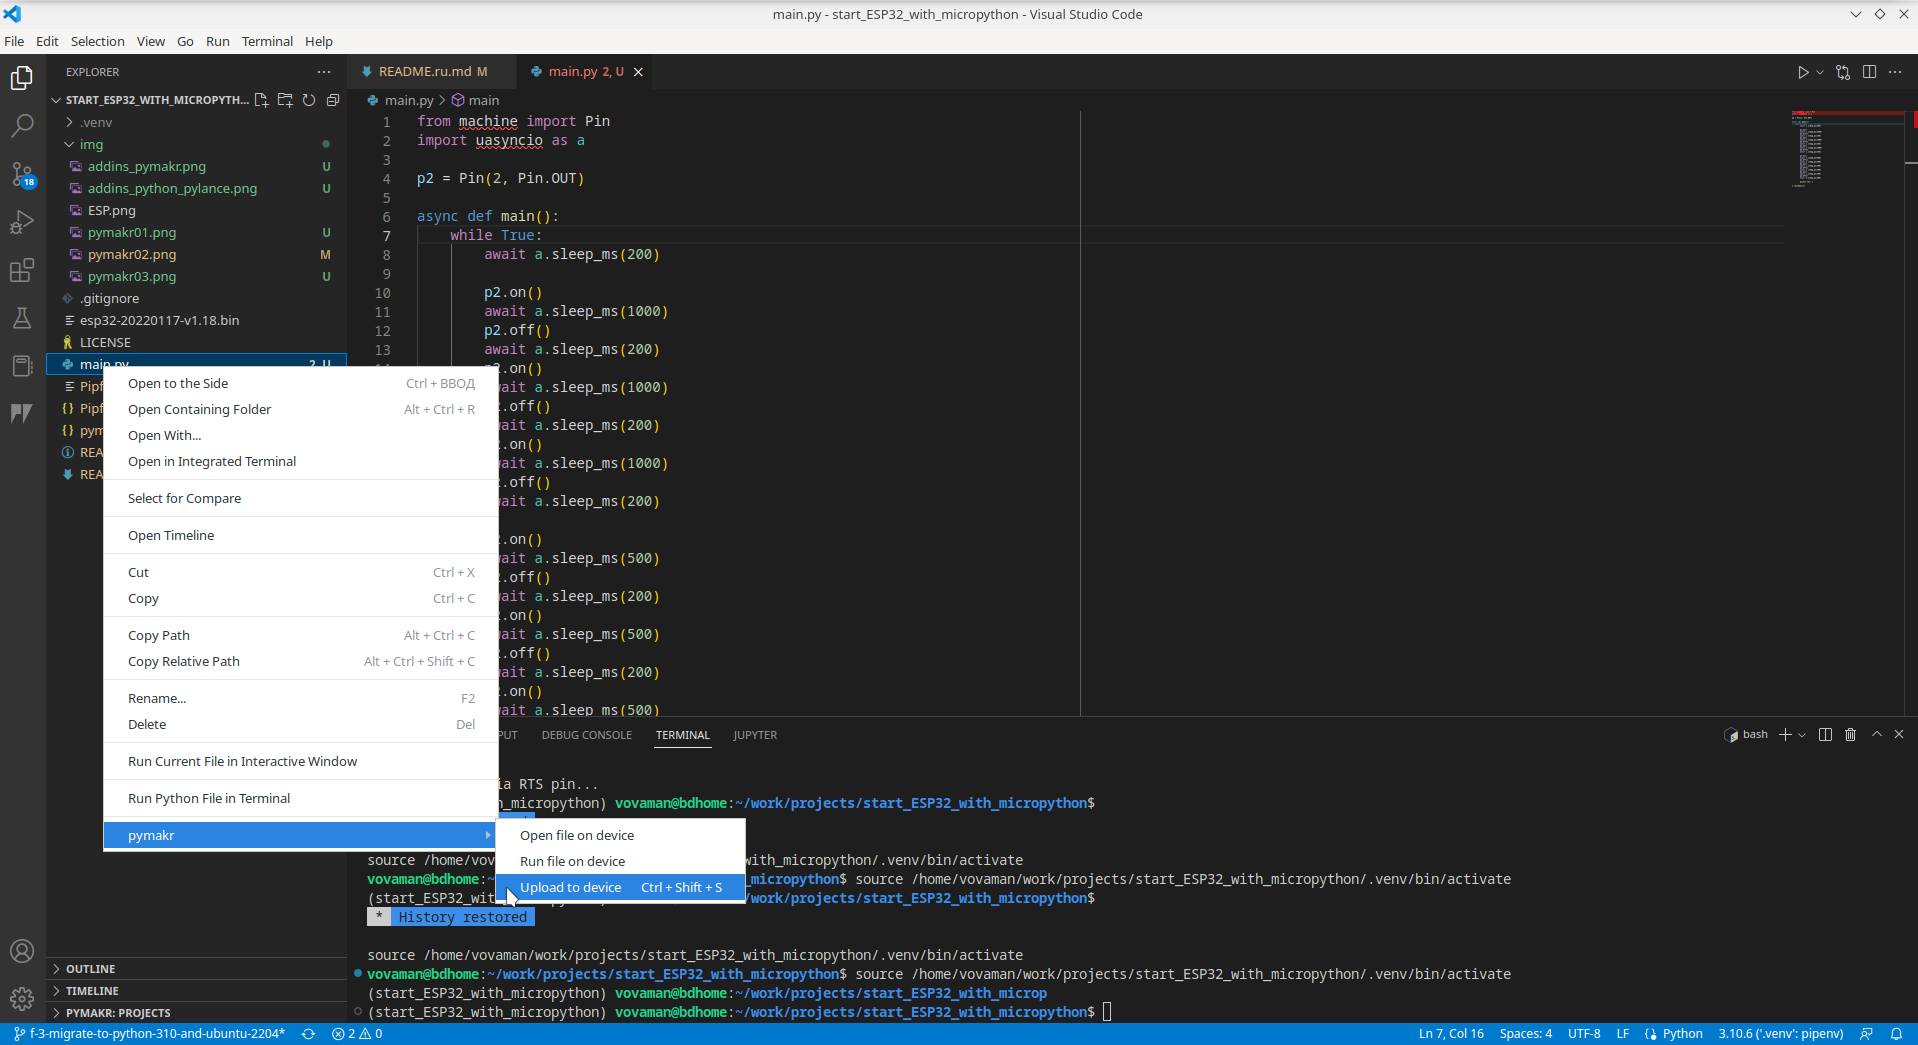
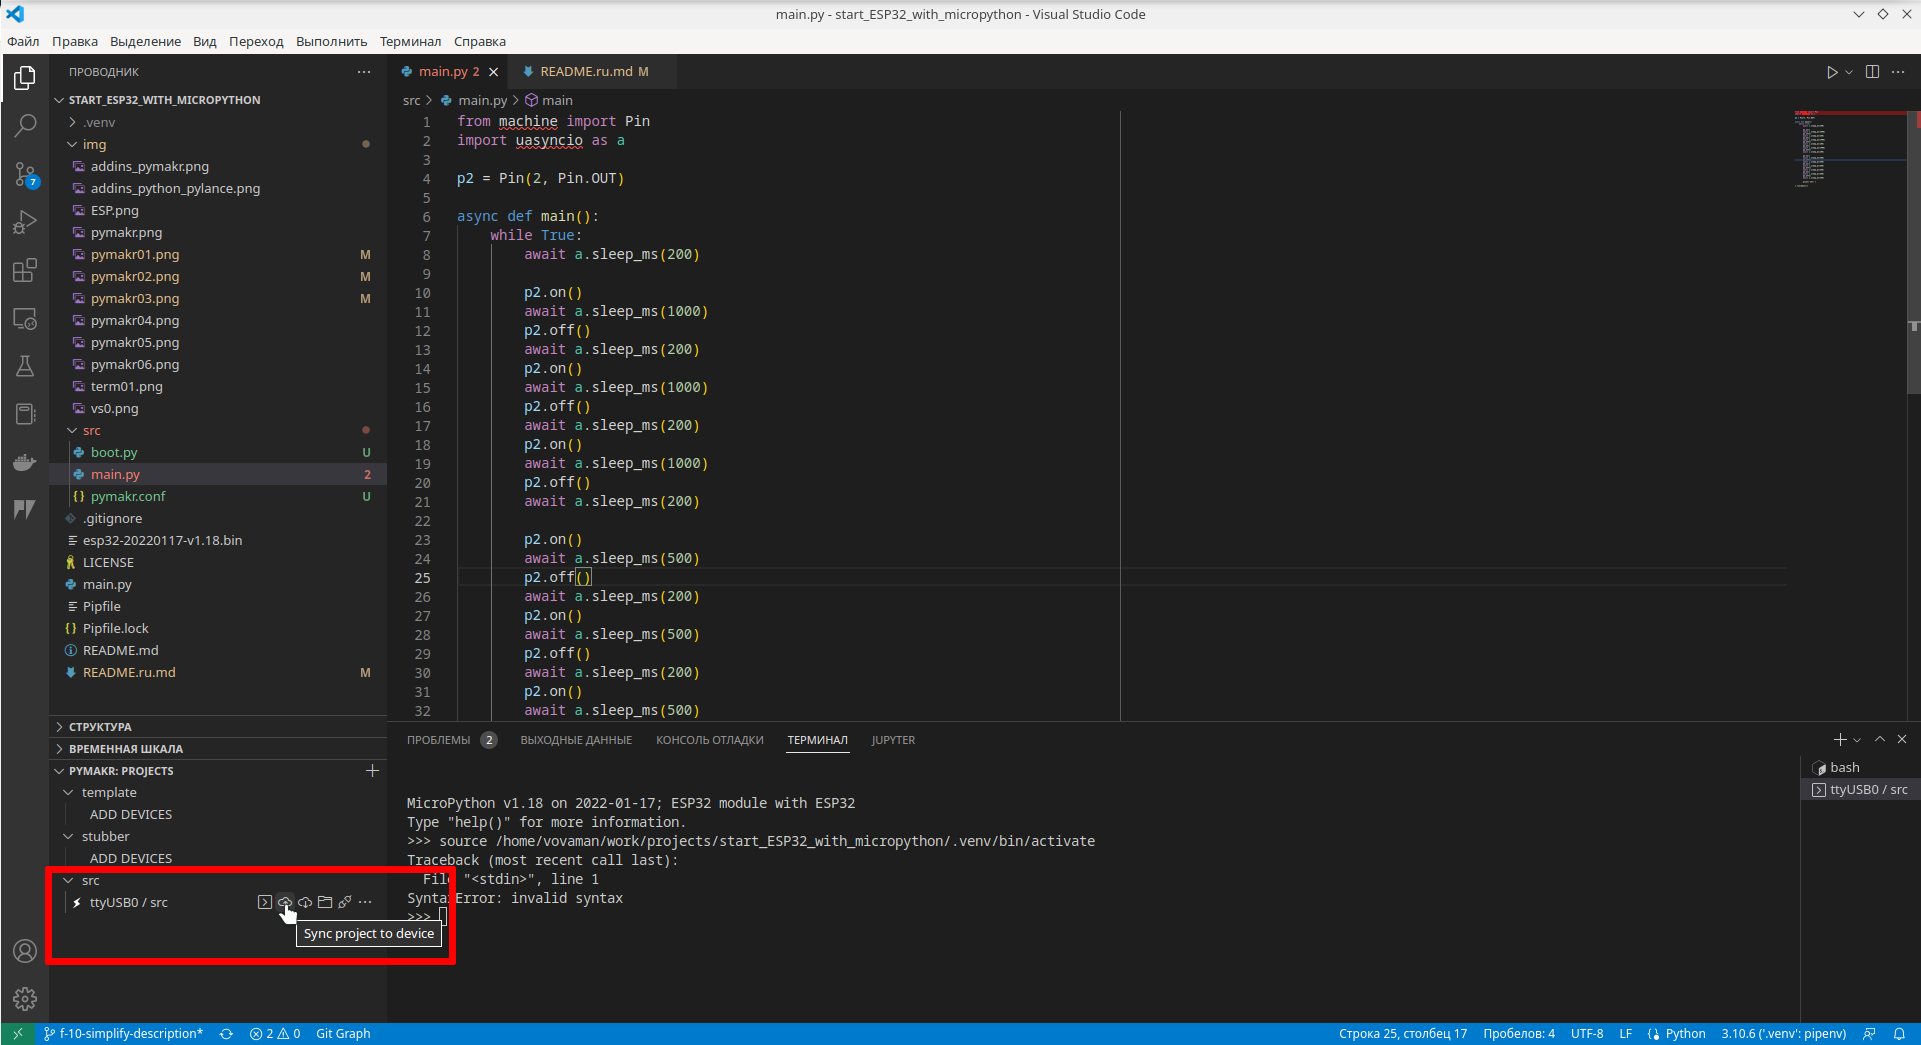
#10 realized

diff --git a/src/boot.py b/src/boot.py
@@ -1,0 +1,1 @@
+# boot.py -- run on boot-up

diff --git a/README.ru.md b/README.ru.md
@@ -4,20 +4,23 @@
 ## Общее описание
 Проект, содержащий описание всех шагов для начала работы с контроллером [ESP32](https://www.espressif.com/en/products/socs/esp32)
 на языке [Micropython](https://micropython.org/).
+
 Кроме описания, содержится код, который мы запустим на контроллере: мигающий диод.
-Цель -- запустить минимальный проект на контроллере, чтобы разобраться, как всё работает.
-В перспективе -- создание кода (https://github.com/Vovaman/connectorESP), управляющего подсоединенными к контроллеру устройствами и отсылающего
-данные измерений в базу данных реального времени (https://github.com/Vovaman/peresvet).
-Первый практический проект -- ["антикессон"](https://github.com/Vovaman/wellCabin), будка над скважиной.
-Контроллер будет включать/выключать обогрев в будке, включать/выключать вентиляцию, а также снимать данные по давлению воды. В дальнейшем - включать/выключать насос.
+
+**Цель** -- запустить минимальный проект на контроллере, чтобы разобраться, как всё работает.
+
 **Почему micropython?** Признаться, мне самому приятней программировать для контроллера на C, используя Arduino IDE. Но главный из вышеперечисленных проектов, [Пересвет](https://github.com/Vovaman/peresvet), реализован на Python, поэтому проще продолжать писать на питоне.
 
 ## Кому предназначено
 Во-первых, мне самому, чтобы не забыть последовательность шагов.
+
 Во-вторых, программистам, желающим оживить и автоматизировать что-то вокруг себя.
+
 В-третьих, всем рукастым или не очень любителям, желающим своими руками попробовать интернет вещей [IoT](https://ru.wikipedia.org/wiki/%D0%98%D0%BD%D1%82%D0%B5%D1%80%D0%BD%D0%B5%D1%82_%D0%B2%D0%B5%D1%89%D0%B5%D0%B9).
+
 Так как среди третьих часто встречаются люди, слабо знакомые с программированием, поэтому описание несколько избыточное, но эти избыточные
 подробные описания спрятаны в спойлерах.
+
 Тем не менее, предполагается, что пользователи имеют базовые навыки: умеют скачивать файлы, запускать терминал,
 работать с командами в командной строке и т.д.
 
@@ -182,7 +185,7 @@ $ pipenv install
 
 **Даём права на запись в порт**
 <details>
-   <summary>sudo adduser user_name dialout</summary>
+   <summary>sudo adduser $USER dialout</summary>
 
    Чтобы иметь возможность прошить контроллер, пользователь, под которым мы работаем, должен иметь права на запись в определённый нами USB-COM порт.
    Для этого выполним команды:
@@ -210,6 +213,11 @@ $ pipenv install
    Об инициализации среды будет говорить то, что перед приглашением командной строки будет имя проекта скобках
    (start_ESP32_with_micropython):
    ![Env](/img/term01.png)
+
+   В противном случае запустим в терминале команду
+   ```bash
+   $ pipenv shell
+   ```
 
 </details>
 
@@ -250,26 +258,25 @@ $ esptool.py --chip esp32 --port /dev/ttyUSB0 --baud 460800 write_flash -z 0x100
 
 ### 8. Заливаем проект
 Перед заливкой необходимо соединиться с устройством (что мы, впрочем, уже сделали на предыдущем шаге).
-В окне списка файлов проекта кликнем правой кнопкой мыши на файле "main.py"
-и выберем команду "Pymakr --> Upload to device...":
-![Upload](/img/pymakr04.png)
+
+Выберем окно со списком файлов нашего проекта.
+
+Внизу будет список проектов PYMAKR.
+
+Нажмём на иконку загрузки проекта:
+![Sync](/img/pymakr04.png)
 
 ...затем выполним команду "Hard reset device":
-![Reset](/img/pymakr06.png)
+![Reset](/img/pymakr05.png)
 
 После перезагрузки контроллера на нём будет мигать синий диод,
 посылая сигнал SOS.
 
-Для того, чтобы увидеть вывод скрипта в терминале, необходимо:
-1. Остановить работу скрипта на контроллере командой "Stop script";
-2. Открыть терминал на контроллере;
-3. Выбрав файл "main.py", нажать правую кнопку мыши и выбрать команду
-   "Pymakr --> Run file on device".
+Для того, чтобы увидеть вывод скрипта в терминале, необходимо опять открыть
+терминал контроллера:
+![Script](/img/pymakr06.png)
 
-> :warning: При работающем на контроллере проекте, после коннекта к контроллеру
-  необходимо выполнить команду "Stop script", чтобы прекратить выполнение проекта и попасть
-  в консоль питона на контроллере:
-  ![StopScript](/img/pymakr05.png)
+Остановить работу скрипта можно, нажав Ctrl+C в окне терминала.
 
 ## Заключение
 Мы подготовили среду и залили свой первый проект на Micropython на контроллер ESP32.

diff --git a/README.md b/README.md
@@ -4,21 +4,18 @@
 ## Introduction
 This project contains all steps to start to work with [ESP32](https://www.espressif.com/en/products/socs/esp32)
 using [Micropython](https://micropython.org/).
+
 Besides this description project contains code for LED blinking. We will run this code on cotroller.
 
 **Our goal** is to run project on controller to understand all the process.
-
-**Perspective** is to create [standard "connector"](https://github.com/Vovaman/connectorESP). This connector will realize some
-control algorithm, acquire data from plugged devices and send it to [platform](https://github.com/Vovaman/peresvet).
-
-First practical project is ["anti-caisson"](https://github.com/Vovaman/wellCabin), which is coffer over well.
-Controller will switch on/off heating and ventilation and will acquire water pressure data. More perspective - switch on/off the pump.
 
 **Why micropython?** All other referenced above projects are in Python. So, this is why micropython is the better choice.
 
 ## For whom
 Firstly, for myself to not forget all the sequence.
+
 Secondly, for programmers wishing to automate some things around.
+
 Thirdly, for all handy guys.
 Due to possible programming weakness among fans, description will be some redundant. But these redundancies will be under spoilers.
 However, it is necessary to have some basic skills with computer: run terminal, work with commands in console, download files in browser and save them into appropriate places and so on...
@@ -185,7 +182,7 @@ Or download the newer version from https://micropython.org/download/esp32/.
 
 **Set rights to write**
 <details>
-   <summary>sudo adduser user_name dialout</summary>
+   <summary>sudo adduser $USER dialout</summary>
 
    Our working account needs rights for write to upgrade the controller.
    We have to run two commands in terminal to do so:
@@ -255,22 +252,20 @@ So, blue diode will light up.
 You have to connect to device before installation (we've made this
 in previous step).
 
-Right click on `main.py` file and run command `Pymakr --> Upload to device`:
-![Upload](/img/pymakr04.png)
-...and `Hard reset device` command:
-![Reset](/img/pymakr06.png)
+Go to project explorer and see PYMAKR project list.
+
+Press the `Sync project to device` button:
+![Sync](/img/pymakr04.png)
+
+...and run `Hard reset device` command:
+![Reset](/img/pymakr05.png)
 
 Blue diode will blink after reboot. Diode will send Mayday signal.
 
-You have to stop the controller to see the script's output in terminal:
-1. Stop script by command `Stop script`.
-2. Open terminal in controller.
-3. Right click on `main.py` file and run `Pymakr --> Run file on device`
-   command.
+Open te controller's terminal and see the script's output:
+![Script](/img/pymakr06.png)
 
-> :warning: To get into controller's terminal while it running you have
-  to stop script on it.
-  ![StopScript](/img/pymakr05.png)
+You can stop script execution by pressing Ctrl+C inside terminal.
 
 ## Conclusion
 We prepare work tools and upload our first micropython project to ESP32 controller.
